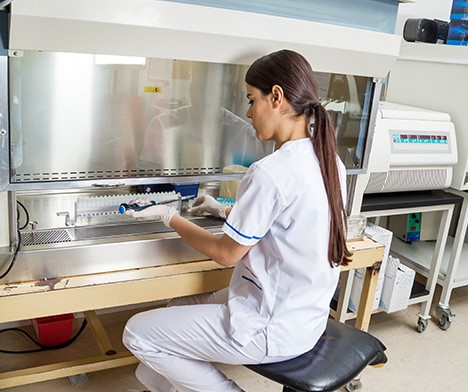
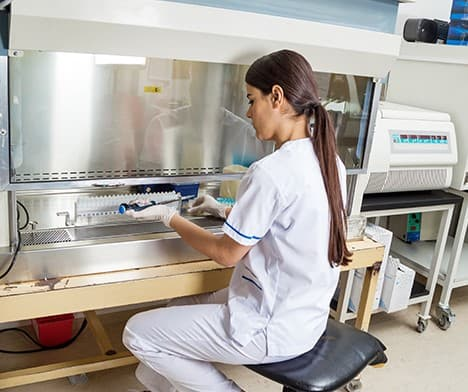
Modificación de navbar y compresión de imágenes

diff --git a/section/educacion.html b/section/educacion.html
@@ -27,19 +27,19 @@
                 <div class="collapse navbar-collapse" id="navbarNavDropdown">
                     <ul class="navbar-nav">
                         <li class="nav-item">
-                            <a class="nav-link barraNavegacion" href="../index.html">Inicio</a>
+                            <a class="nav-link" href="../index.html">Inicio</a>
                         </li>
                         <li class="nav-item">
-                            <a class="nav-link barraNavegacion" href="nosotros.html">Nosotros</a>
+                            <a class="nav-link" href="nosotros.html">Nosotros</a>
                         </li>
                         <li class="nav-item">
-                            <a class="nav-link barraNavegacion" href="servicios.html">Servicios</a>
+                            <a class="nav-link" href="servicios.html">Servicios</a>
                         </li>
                         <li class="nav-item">
-                            <a class="nav-link active barraNavegacion" aria-current="page" href="educacion.html">Saber Más</a>
+                            <a class="nav-link active" href="educacion.html">Saber Más</a>
                         </li>
                         <li class="nav-item">
-                            <a class="nav-link barraNavegacion" href="contacto.html">Contacto</a>
+                            <a class="nav-link" href="contacto.html">Contacto</a>
                         </li>
                     </ul>
                 </div>
@@ -67,7 +67,7 @@
                     Primero, ¿Qué es la CITOGENÉTICA?
                 </h2>
                 <p>
-                    La <span class="bold">Citogenética</span> es el estudio de la morfología y el comportamiento de los cromosomas, siendo la citogenética humana una rama que se centra en los cambios cromosómicos en relación a las condiciones patológicas de las personas.
+                    La <span class="bold">Citogenética</span>  la morfología y el comportamiento de los cromosomas, siendo la citogenética humana una rama que se centra en los cambios cromosómicos en relación a las condiciones patológicas de las personas.
                 </p>
             </div>
         </section>

diff --git a/index.html b/index.html
@@ -27,19 +27,19 @@
                 <div class="collapse navbar-collapse" id="navbarNavDropdown">
                     <ul class="navbar-nav">
                         <li class="nav-item">
-                            <a class="nav-link active barraNavegacion" aria-current="page" href="index.html">Inicio</a>
+                            <a class="nav-link active" href="index.html">Inicio</a>
                         </li>
                         <li class="nav-item">
-                            <a class="nav-link barraNavegacion" href="./section/nosotros.html">Nosotros</a>
+                            <a class="nav-link" href="./section/nosotros.html">Nosotros</a>
                         </li>
                         <li class="nav-item">
-                            <a class="nav-link barraNavegacion" href="./section/servicios.html">Servicios</a>
+                            <a class="nav-link" href="./section/servicios.html">Servicios</a>
                         </li>
                         <li class="nav-item">
-                            <a class="nav-link barraNavegacion" href="./section/educacion.html">Saber Más</a>
+                            <a class="nav-link" href="./section/educacion.html">Saber Más</a>
                         </li>
                         <li class="nav-item">
-                            <a class="nav-link barraNavegacion" href="./section/contacto.html">Contacto</a>
+                            <a class="nav-link" href="./section/contacto.html">Contacto</a>
                         </li>
                     </ul>
                 </div>
@@ -127,7 +127,7 @@
             </div>
         </section>
         <div class="autor">
-            <h3>© Sitio web (ficticio) desarrollado por <a class="bold" href="https://www.linkedin.com/in/palavecinonicolas/">Nicolás Palavecino</a></h3>
+            <h3>© Sitio web (ollado por <a class="bold" href="https://www.linkedin.com/in/palavecinonicolas/">Nicolás Palavecino</a></h3>
         </div>    
     </footer>
 

diff --git a/section/contacto.html b/section/contacto.html
@@ -27,19 +27,19 @@
                 <div class="collapse navbar-collapse" id="navbarNavDropdown">
                     <ul class="navbar-nav">
                         <li class="nav-item">
-                            <a class="nav-link barraNavegacion" href="../index.html">Inicio</a>
+                            <a class="nav-link" href="../index.html">Inicio</a>
                         </li>
                         <li class="nav-item">
-                            <a class="nav-link barraNavegacion" href="nosotros.html">Nosotros</a>
+                            <a class="nav-link" href="nosotros.html">Nosotros</a>
                         </li>
                         <li class="nav-item">
-                            <a class="nav-link barraNavegacion"  href="servicios.html">Servicios</a>
+                            <a class="nav-link" href="servicios.html">Servicios</a>
                         </li>
                         <li class="nav-item">
-                            <a class="nav-link barraNavegacion" aria-current="page" href="educacion.html">Saber Más</a>
+                            <a class="nav-link" href="educacion.html">Saber Más</a>
                         </li>
                         <li class="nav-item">
-                            <a class="nav-link active barraNavegacion" href="contacto.html">Contacto</a>
+                            <a class="nav-link active" href="contacto.html">Contacto</a>
                         </li>
                     </ul>
                 </div>
@@ -52,7 +52,7 @@
             <img src="../img/Banner5.png" alt="científica vistiendo guardapolvo y utilizando un microscopio" class="banner">
             <div class="banner banner-sup">
                 <h1>
-                    Si necesitás <span class="bold">asesoramiento</span>, no dudes en contactarnos
+                    Si necesitás <span class="bold">asesoramiento</span>, no dudes en cosultarnos
                 </h1>
             </div>
         </section>

diff --git a/section/nosotros.html b/section/nosotros.html
@@ -27,19 +27,19 @@
                 <div class="collapse navbar-collapse" id="navbarNavDropdown">
                     <ul class="navbar-nav">
                         <li class="nav-item">
-                            <a class="nav-link barraNavegacion" href="../index.html">Inicio</a>
+                            <a class="nav-link" href="../index.html">Inicio</a>
                         </li>
                         <li class="nav-item">
-                            <a class="nav-link active barraNavegacion" aria-current="page" href="nosotros.html">Nosotros</a>
+                            <a class="nav-link active" href="nosotros.html">Nosotros</a>
                         </li>
                         <li class="nav-item">
-                            <a class="nav-link barraNavegacion" href="servicios.html">Servicios</a>
+                            <a class="nav-link" href="servicios.html">Servicios</a>
                         </li>
                         <li class="nav-item">
-                            <a class="nav-link barraNavegacion" href="educacion.html">Saber Más</a>
+                            <a class="nav-link" href="educacion.html">Saber Más</a>
                         </li>
                         <li class="nav-item">
-                            <a class="nav-link barraNavegacion" href="contacto.html">Contacto</a>
+                            <a class="nav-link" href="contacto.html">Contacto</a>
                         </li>
                     </ul>
                 </div>
@@ -172,7 +172,7 @@
             </div>
         </section>
         <div class="autor">
-            <h3>© Sitio web (ficticio) desarrollado por <a class="bold" href="https://www.linkedin.com/in/palavecinonicolas/">Nicolás Palavecino</a></h3>
+            <h3>© Sitio web (ollado por <a class="bold" href="https://www.linkedin.com/in/palavecinonicolas/">Nicolás Palavecino</a></h3>
         </div>    
     </footer>
 

diff --git a/section/servicios.html b/section/servicios.html
@@ -27,19 +27,19 @@
                 <div class="collapse navbar-collapse" id="navbarNavDropdown">
                     <ul class="navbar-nav">
                         <li class="nav-item">
-                            <a class="nav-link barraNavegacion" href="../index.html">Inicio</a>
+                            <a class="nav-link" href="../index.html">Inicio</a>
                         </li>
                         <li class="nav-item">
-                            <a class="nav-link barraNavegacion" href="nosotros.html">Nosotros</a>
+                            <a class="nav-link" href="nosotros.html">Nosotros</a>
                         </li>
                         <li class="nav-item">
-                            <a class="nav-link active barraNavegacion" aria-current="page" href="servicios.html">Servicios</a>
+                            <a class="nav-link active" href="servicios.html">Servicios</a>
                         </li>
                         <li class="nav-item">
-                            <a class="nav-link barraNavegacion" href="educacion.html">Saber Más</a>
+                            <a class="nav-link" href="educacion.html">Saber Más</a>
                         </li>
                         <li class="nav-item">
-                            <a class="nav-link barraNavegacion" href="contacto.html">Contacto</a>
+                            <a class="nav-link" href="contacto.html">Contacto</a>
                         </li>
                     </ul>
                 </div>
